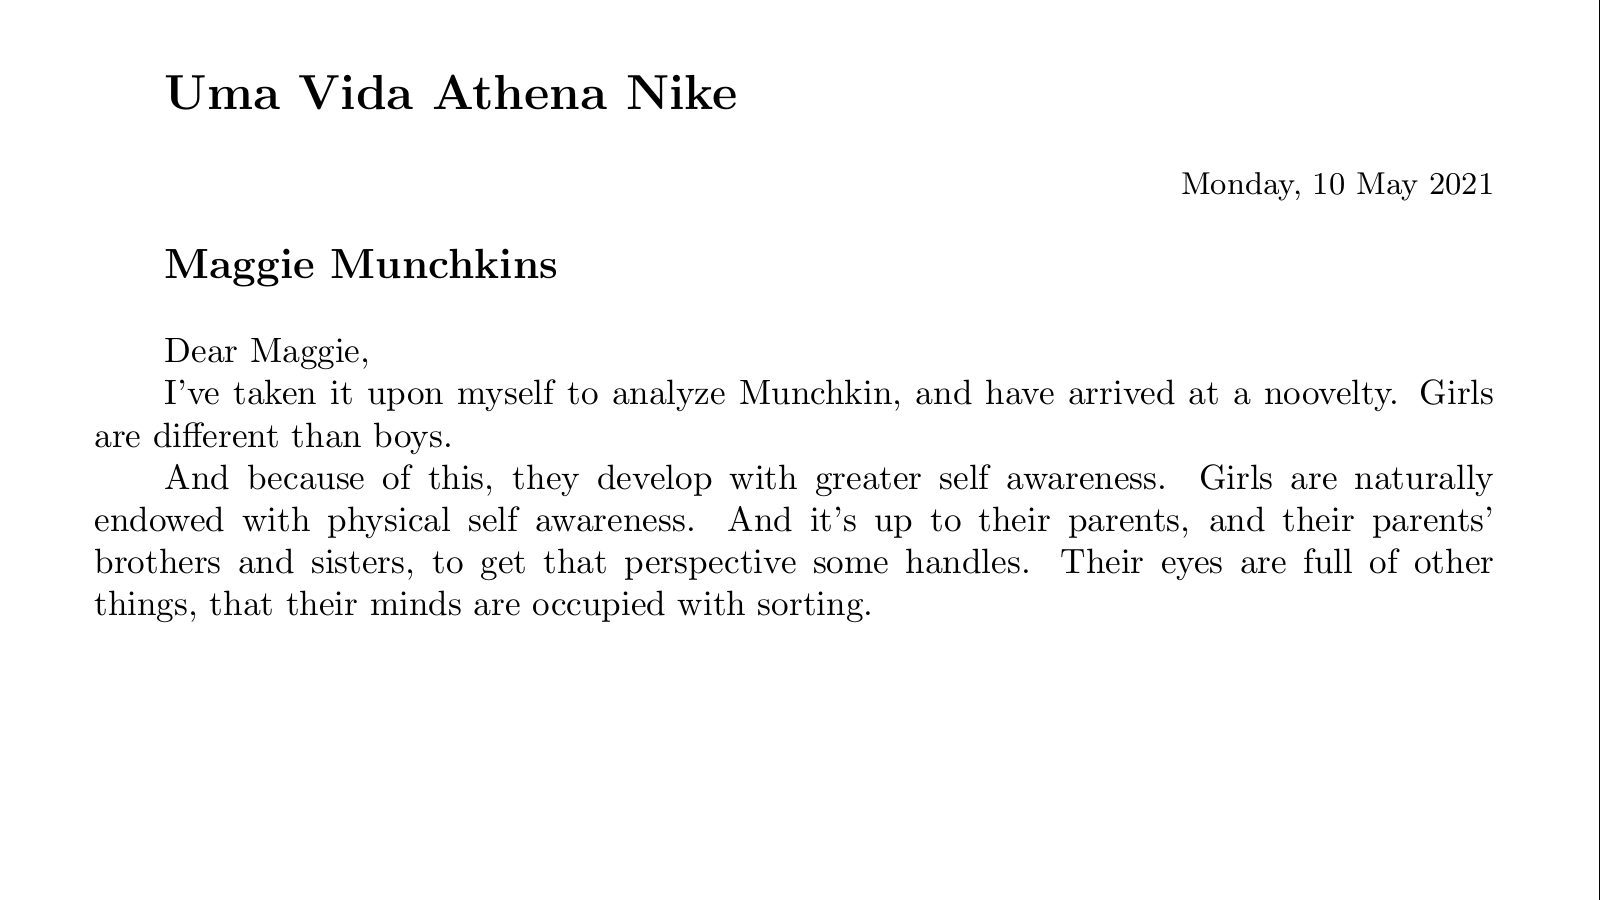
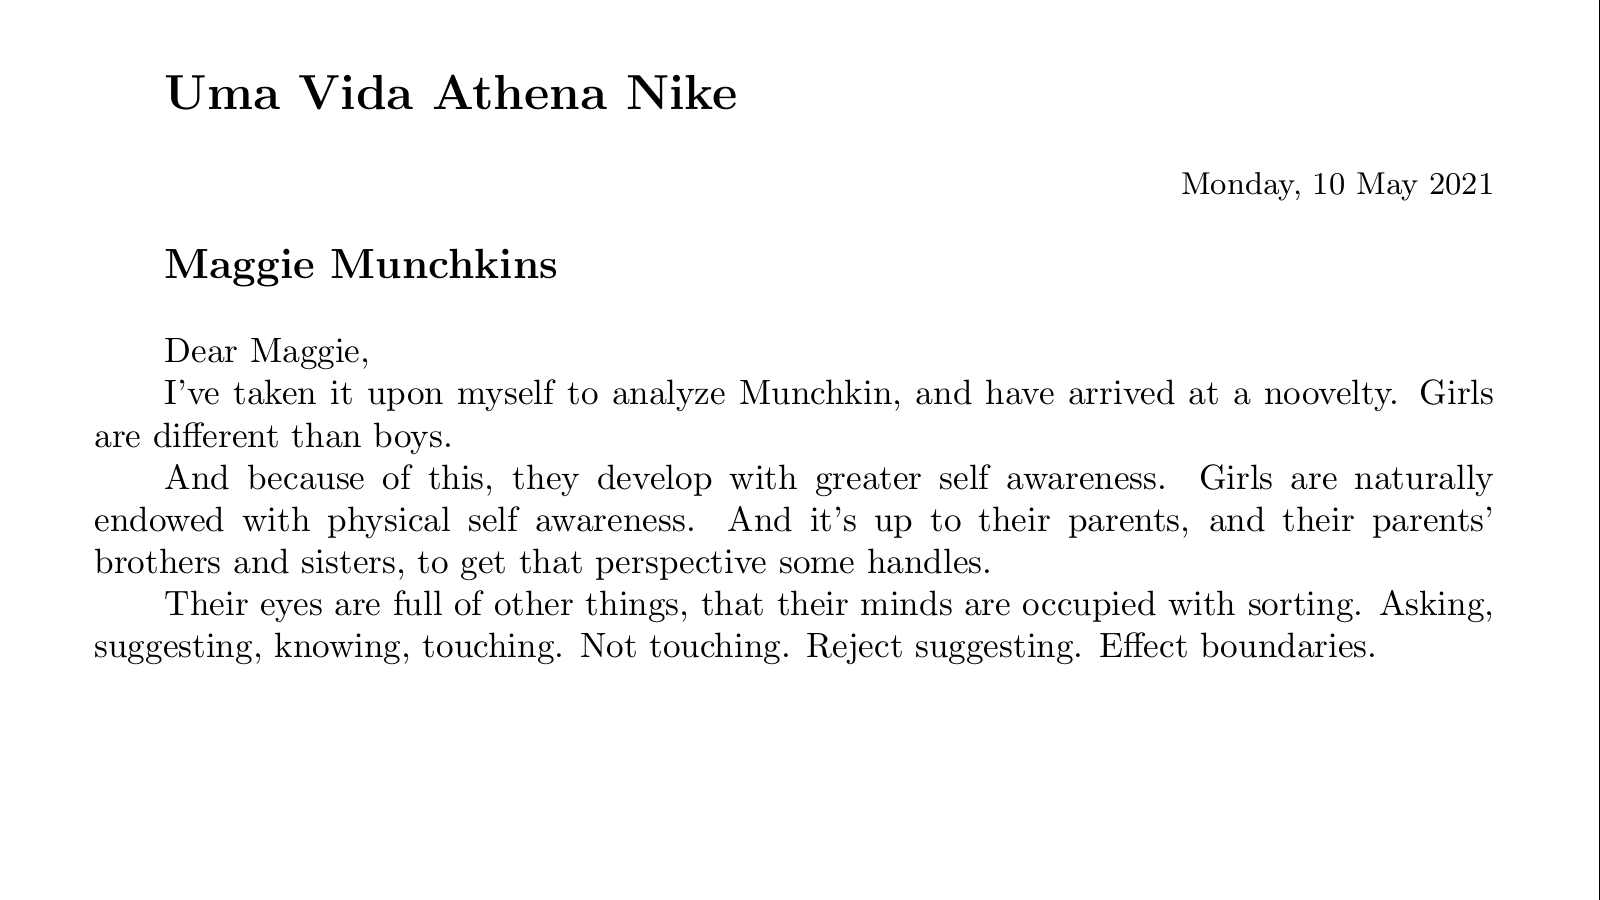
noovelty

Changed region(s): [[0.0625, 0.5911, 0.9375, 0.7467]]

diff --git a/2021/shorts.tex b/2021/shorts.tex
@@ -1,0 +1,82 @@
+%
+% git:syntelos:/sh-tex/shorts.tex
+% John Pritchard, @syntelos
+% CC-BY-NC
+%
+\font\fourteenrm=cmr12 at 14pt
+\font\fourteenbf=cmbx12 at 14pt
+\font\fourteenit=cmti12 at 14pt
+\font\fourteensl=cmsl12 at 14pt
+\font\fourteenmi=cmmi12 at 14pt
+\font\fourteentt=cmtt12 at 14pt
+
+\font\twelverm=cmr12
+\font\twelvebf=cmbx12
+\font\twelveit=cmti12
+\font\twelvesl=cmsl12
+\font\twelvemi=cmmi12
+\font\twelvett=cmtt12
+
+\font\tenrm=cmr10
+\font\tenbf=cmbx10
+\font\tenit=cmti10
+\font\tensl=cmsl10
+\font\tenmi=cmmi10
+\font\tentt=cmtt10
+
+\font\ninerm=cmr9
+\font\ninebf=cmbx9
+\font\nineit=cmti9
+\font\ninesl=cmsl9
+\font\ninemi=cmmi9
+\font\ninett=cmtt9
+
+\def\title{
+  \let\rm=\fourteenrm \let\bf=\fourteenbf
+  \let\it=\fourteenit \let\sl=\fourteensl
+  \let\mi=\fourteenmi \let\tt=\fourteentt
+  \bigskip
+  \bf}
+\def\section{
+  \let\rm=\twelverm \let\bf=\twelvebf
+  \let\it=\twelveit \let\sl=\twelvesl
+  \let\mi=\twelvemi \let\tt=\twelvett
+  \bigskip
+  \bf}
+\def\body{
+  \let\rm=\tenrm \let\bf=\tenbf
+  \let\it=\tenit \let\sl=\tensl
+  \let\mi=\tenmi \let\tt=\tentt
+  \medskip
+  \rm}
+\def\minor{
+  \let\rm=\ninerm \let\bf=\ninebf
+  \let\it=\nineit \let\sl=\ninesl
+  \let\mi=\ninemi \let\tt=\ninett
+  \bigskip
+  \rm}
+\def\date{
+  \let\rm=\ninerm \let\bf=\ninebf
+  \let\it=\nineit \let\sl=\ninesl
+  \let\mi=\ninemi \let\tt=\ninett
+  \bigskip
+  \rm\hfill}
+\def\tail{
+  \let\rm=\ninerm \let\bf=\ninebf
+  \let\it=\nineit \let\sl=\ninesl
+  \let\mi=\ninemi \let\tt=\ninett
+  \bigskip
+  \tt\hfill}
+
+\hsize 85mm
+\vsize 130mm
+\hoffset -16mm
+\voffset -18mm
+% ISO:216 (A6)
+\special{papersize=105mm,150mm}
+
+\footline = {}
+
+\bigskip
+
+\bigskip

diff --git a/2021/athena.tex b/2021/athena.tex
@@ -1,0 +1,82 @@
+%
+% git:syntelos:/sh-tex/shorts.tex
+% John Pritchard, @syntelos
+% CC-BY-NC
+%
+\font\fourteenrm=cmr12 at 14pt
+\font\fourteenbf=cmbx12 at 14pt
+\font\fourteenit=cmti12 at 14pt
+\font\fourteensl=cmsl12 at 14pt
+\font\fourteenmi=cmmi12 at 14pt
+\font\fourteentt=cmtt12 at 14pt
+
+\font\twelverm=cmr12
+\font\twelvebf=cmbx12
+\font\twelveit=cmti12
+\font\twelvesl=cmsl12
+\font\twelvemi=cmmi12
+\font\twelvett=cmtt12
+
+\font\tenrm=cmr10
+\font\tenbf=cmbx10
+\font\tenit=cmti10
+\font\tensl=cmsl10
+\font\tenmi=cmmi10
+\font\tentt=cmtt10
+
+\font\ninerm=cmr9
+\font\ninebf=cmbx9
+\font\nineit=cmti9
+\font\ninesl=cmsl9
+\font\ninemi=cmmi9
+\font\ninett=cmtt9
+
+\def\title{
+  \let\rm=\fourteenrm \let\bf=\fourteenbf
+  \let\it=\fourteenit \let\sl=\fourteensl
+  \let\mi=\fourteenmi \let\tt=\fourteentt
+  \bigskip
+  \bf}
+\def\section{
+  \let\rm=\twelverm \let\bf=\twelvebf
+  \let\it=\twelveit \let\sl=\twelvesl
+  \let\mi=\twelvemi \let\tt=\twelvett
+  \bigskip
+  \bf}
+\def\body{
+  \let\rm=\tenrm \let\bf=\tenbf
+  \let\it=\tenit \let\sl=\tensl
+  \let\mi=\tenmi \let\tt=\tentt
+  \medskip
+  \rm}
+\def\minor{
+  \let\rm=\ninerm \let\bf=\ninebf
+  \let\it=\nineit \let\sl=\ninesl
+  \let\mi=\ninemi \let\tt=\ninett
+  \bigskip
+  \rm}
+\def\date{
+  \let\rm=\ninerm \let\bf=\ninebf
+  \let\it=\nineit \let\sl=\ninesl
+  \let\mi=\ninemi \let\tt=\ninett
+  \bigskip
+  \rm\hfill}
+\def\tail{
+  \let\rm=\ninerm \let\bf=\ninebf
+  \let\it=\nineit \let\sl=\ninesl
+  \let\mi=\ninemi \let\tt=\ninett
+  \bigskip
+  \tt\hfill}
+
+\hsize 140mm
+\vsize 90mm
+\hoffset -16mm
+\voffset -18mm
+% ISO:216 (A6)
+\special{papersize=160mm,90mm}
+
+\footline = {}
+
+\bigskip
+
+\bigskip

diff --git a/2021/cygnus-20210510-0.tex b/2021/cygnus-20210510-0.tex
@@ -16,8 +16,11 @@ noovelty.  Girls are different than boys.
 And because of this, they develop with greater self awareness.  Girls
 are naturally endowed with physical self awareness.  And it's up to
 their parents, and their parents' brothers and sisters, to get that
-perspective some handles.  Their eyes are full of other things, that
-their minds are occupied with sorting.
+perspective some handles.
+
+Their eyes are full of other things, that their minds are occupied
+with sorting.  Asking, suggesting, knowing, touching.  Not touching.
+Reject suggesting.  Effect boundaries.
 
 \smallskip
 \bye

diff --git a/2021/template.tex b/2021/template.tex
@@ -1,0 +1,13 @@
+\input athena
+
+{\title }
+
+{\date }
+
+{\section }
+
+\bigskip
+
+
+\smallskip
+\bye
